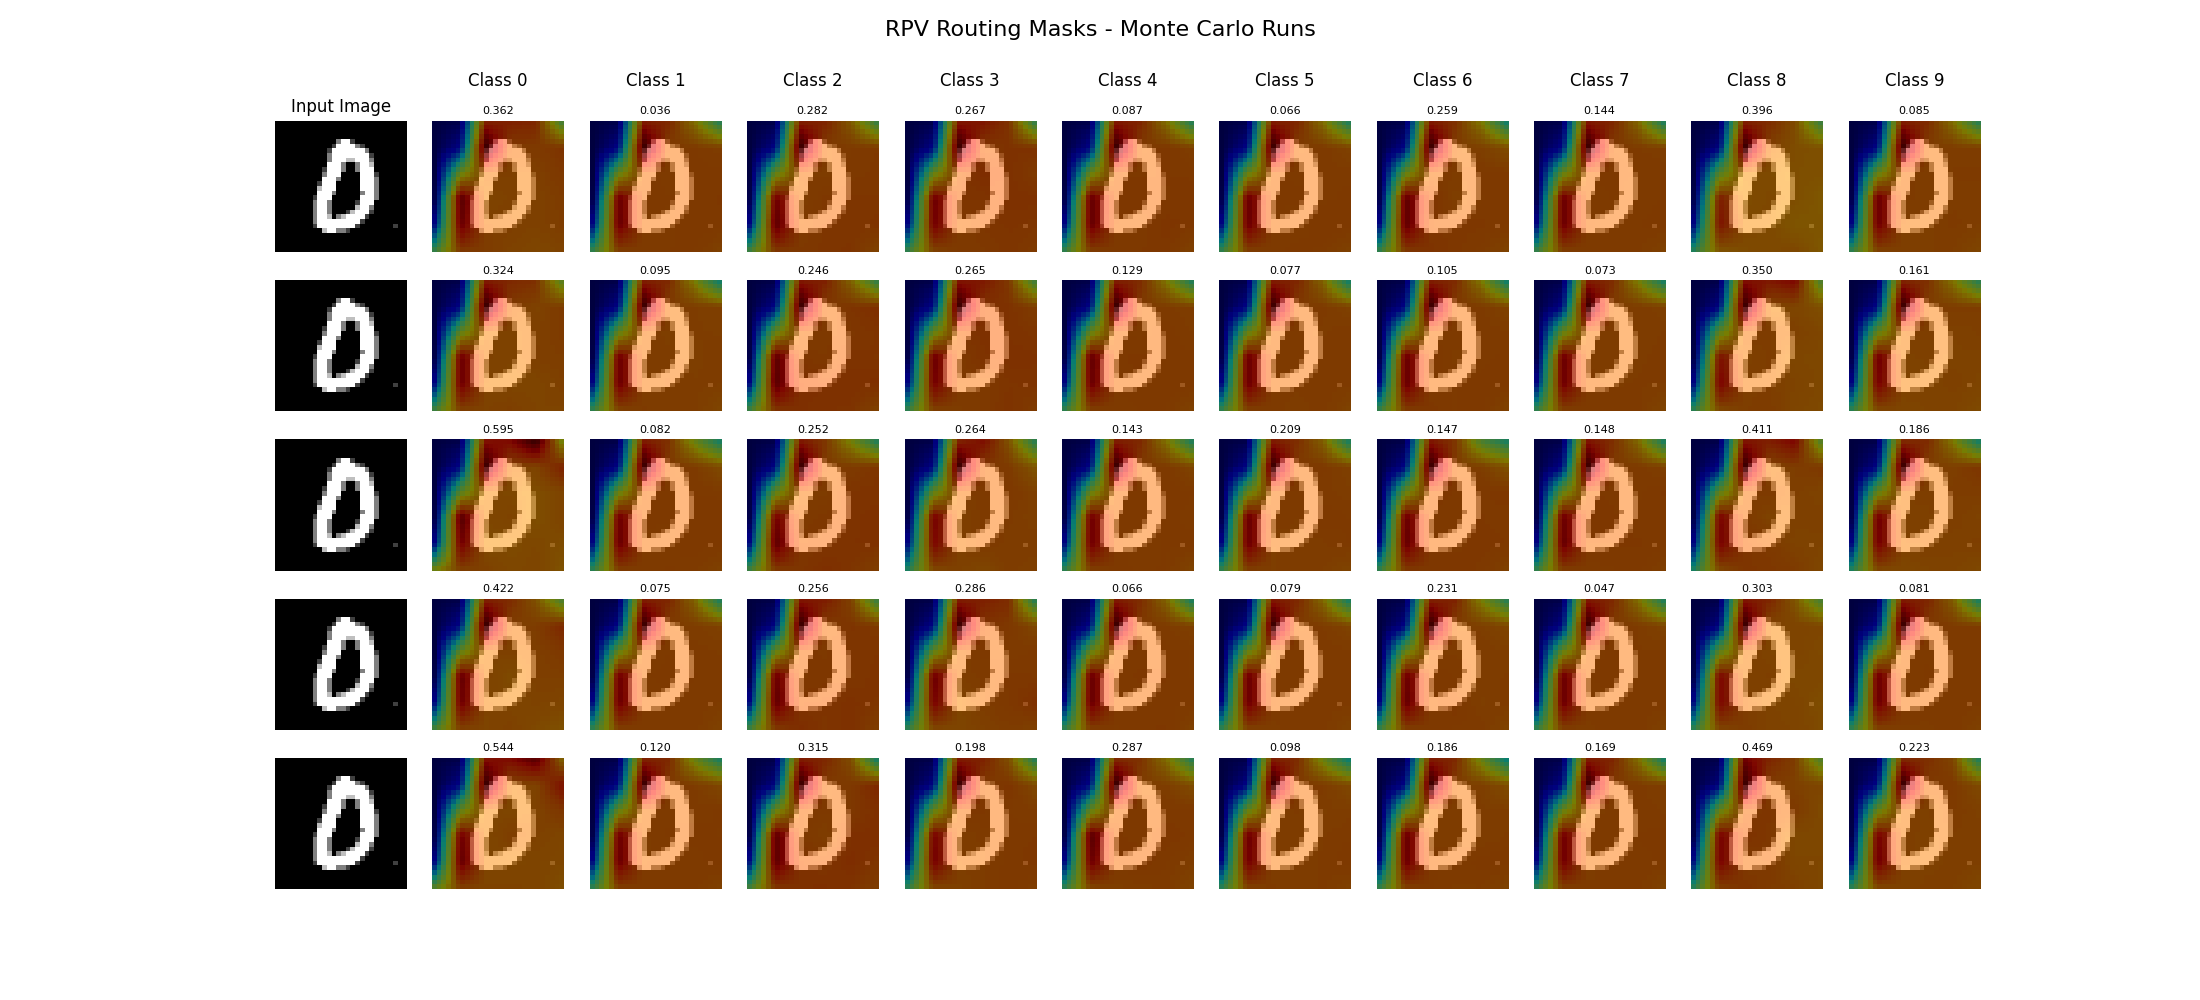
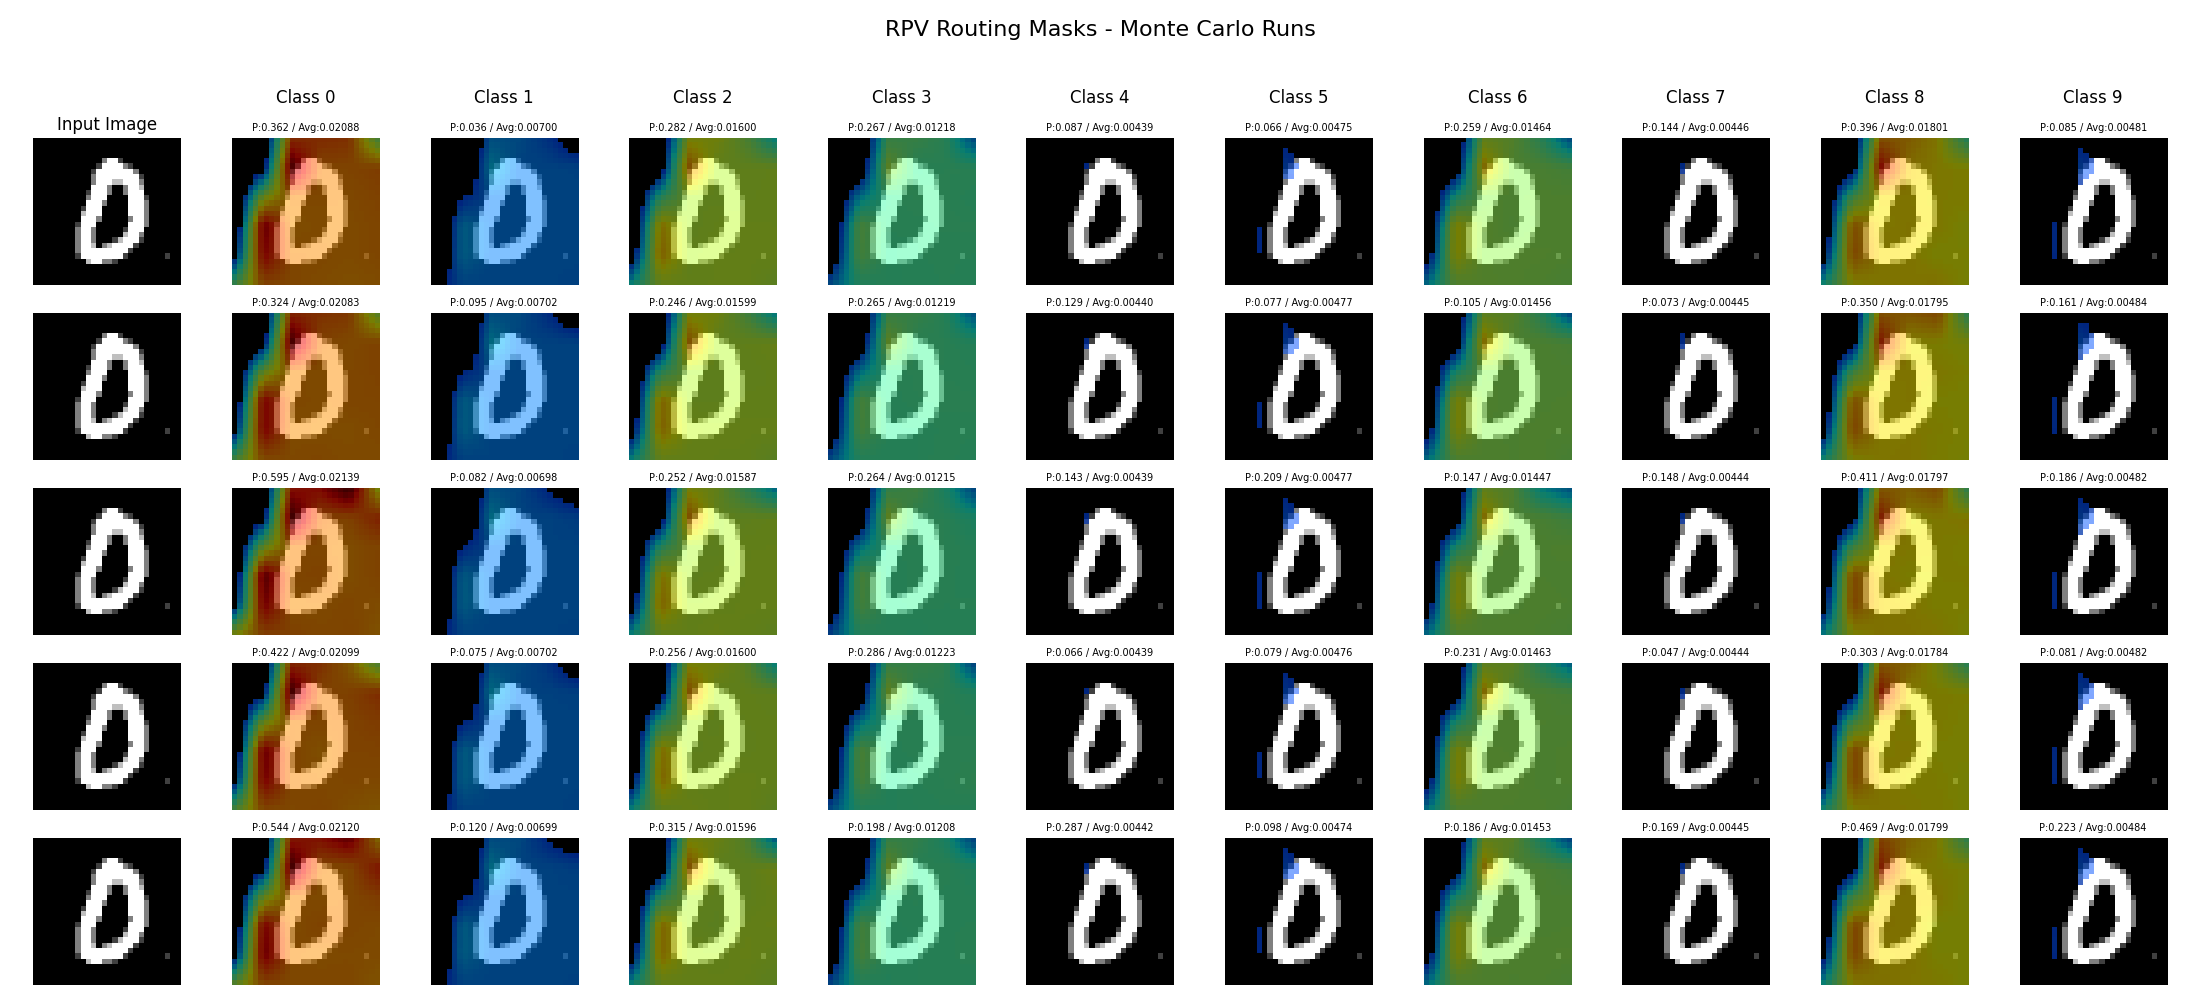
updated to use proper threshold lvl
matplotlib auto adjust colour scale so need to manually threshold on global min and max pixel value

diff --git a/CAPSNet/VisualizeBayesCapNet.py b/CAPSNet/VisualizeBayesCapNet.py
@@ -279,12 +279,29 @@ for i in range(5):
 # Prepare input image (28x28 grayscale)
 input_img = example_img[0, :, :, 0]
 
-# Function to resize mask to 28x28 (input size)
-def resize_mask(mask, new_shape=(28,28)):
+# Resize function
+def resize_mask(mask, new_shape=(28, 28)):
     zoom_factors = (new_shape[0] / mask.shape[0], new_shape[1] / mask.shape[1])
     return zoom(mask, zoom_factors, order=1)
 
-# Plotting: 5 rows (MC runs), 11 columns (input + classes 0-9)
+# --- Step 1: Precompute all resized masks and get global min/max ---
+all_resized_masks = []
+
+for row in range(5):
+    for class_idx in range(10):
+        mask = all_paths_averages[row][:, :, class_idx]
+        mask_resized = resize_mask(mask, new_shape=input_img.shape)
+        all_resized_masks.append(mask_resized)
+
+all_resized_masks = np.stack(all_resized_masks)  # shape: (50, H, W)
+global_min = np.min(all_resized_masks)
+global_max = np.max(all_resized_masks)
+
+# Optional: Use percentiles to avoid extreme outliers
+# global_min = np.percentile(all_resized_masks, 1)
+# global_max = np.percentile(all_resized_masks, 99)
+
+# --- Step 2: Plotting ---
 fig, axes = plt.subplots(5, 11, figsize=(22, 10))
 fig.suptitle('RPV Routing Masks - Monte Carlo Runs', fontsize=16)
 
@@ -294,7 +311,6 @@ for row in range(5):
         ax.axis('off')
 
         if col == 0:
-            # First column: input image repeated on every row
             ax.imshow(input_img, cmap='gray')
             if row == 0:
                 ax.set_title("Input Image")
@@ -302,24 +318,30 @@ for row in range(5):
             class_idx = col - 1
             mask = all_paths_averages[row][:, :, class_idx]
             mask_resized = resize_mask(mask, new_shape=input_img.shape)
-            mask_norm = (mask_resized - mask_resized.min()) / (mask_resized.max() - mask_resized.min() + 1e-6)
+
+            mask_norm = (mask_resized - global_min) / (global_max - global_min + 1e-6)
+            avg_val = np.mean(mask_resized)
+
+            # Apply threshold to suppress low-activation areas
+            threshold = 0.2
+            mask_display = np.where(mask_norm >= threshold, mask_norm, np.nan)
 
             ax.imshow(input_img, cmap='gray')
-            ax.imshow(mask_norm, cmap='jet', alpha=0.5)
+            ax.imshow(mask_display, cmap='jet', alpha=0.5, vmin=0.0, vmax=1.0)
 
             if row == 0:
                 ax.set_title(f'Class {class_idx}', pad=25)
 
-            # Add class probability text above the mask for each run and class
-            prob = vec_len_outputs[row].numpy()[0, class_idx]  # get prob scalar
+            prob = vec_len_outputs[row].numpy()[0, class_idx]
             ax.text(
-                0.5, 1.05,  # x=middle, y=just above axes
-                f"{prob:.3f}",
+                0.5, 1.05,
+                f"P:{prob:.3f} / Avg:{avg_val:.5f}",
                 color='black',
-                fontsize=8,
+                fontsize=7,
                 ha='center',
                 transform=ax.transAxes,
                 bbox=dict(facecolor='white', alpha=0.7, edgecolor='none', pad=1)
             )
 
+plt.tight_layout(rect=[0, 0, 1, 0.96])  # Leave space for suptitle
 plt.show()
